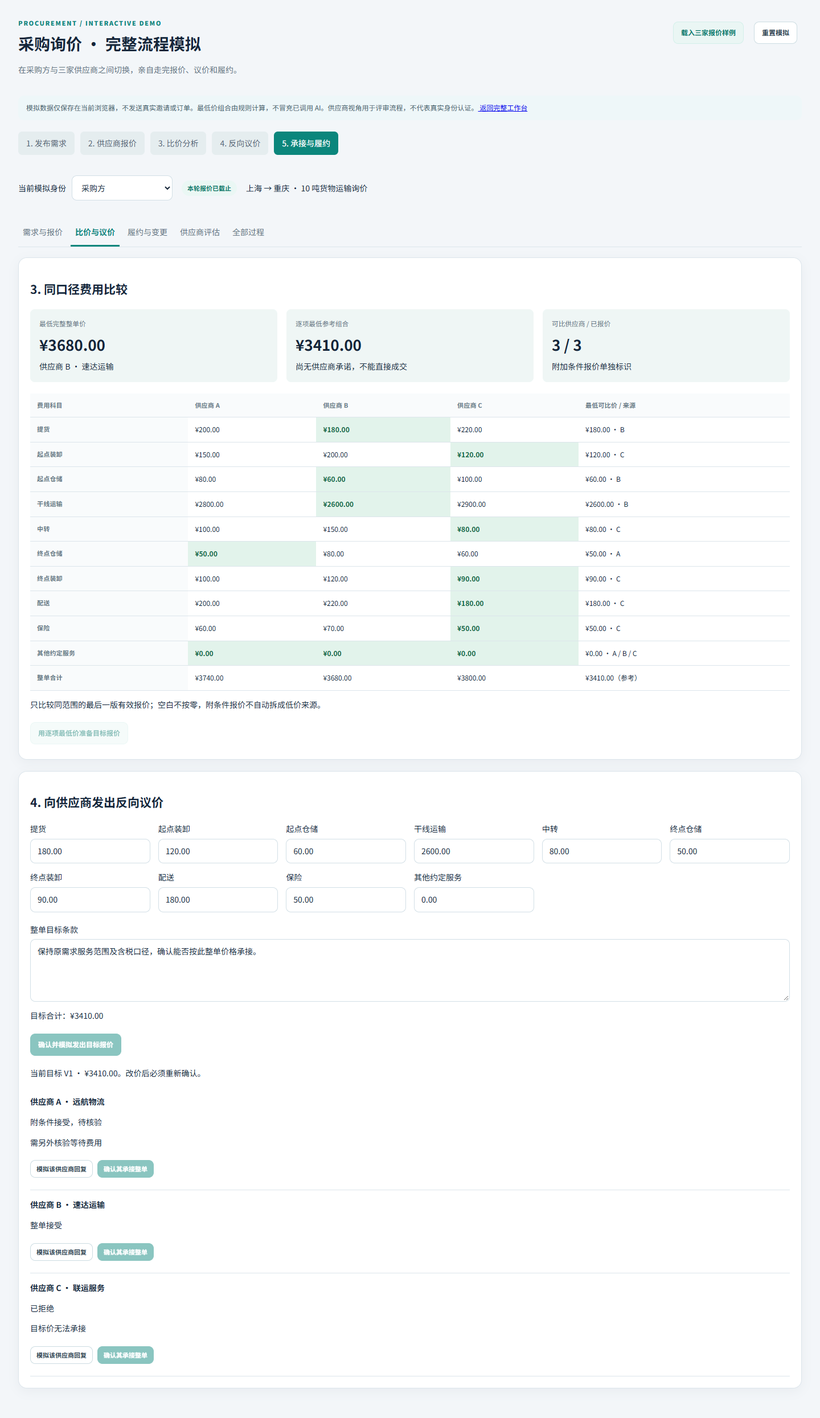
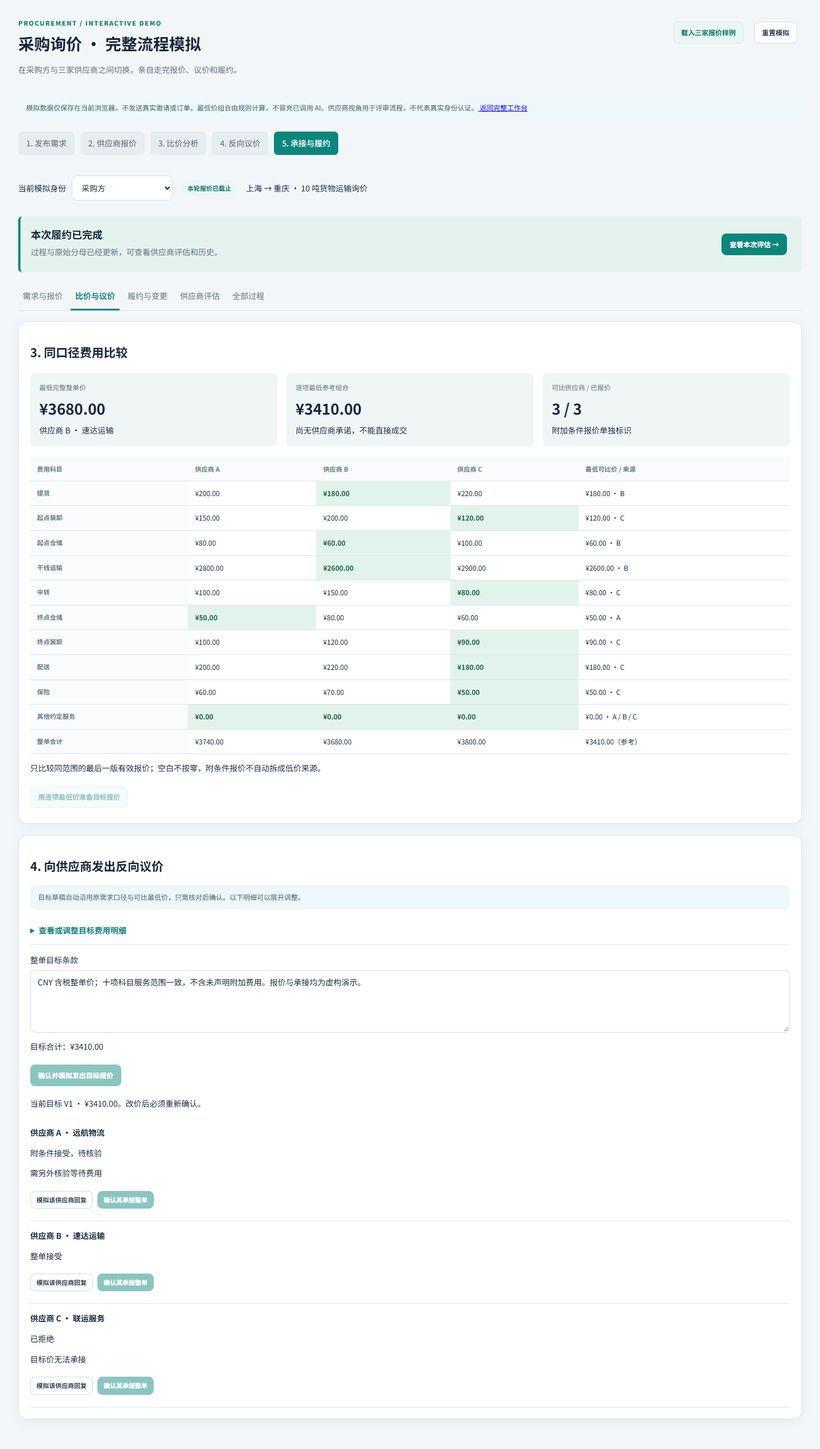
Improve procurement guidance and reduce repetitive quote entry

diff --git a/frontend/src/procurement/DemoProcurement.tsx b/frontend/src/procurement/DemoProcurement.tsx
@@ -1,24 +1,32 @@
 import {useEffect,useState} from 'react';
 import {Action,comparison,DemoState,metrics,money,cents,reduce,seed,total} from './demoModel';
+import FlowGuide from './FlowGuide';
+import QuoteAssist from './QuoteAssist';
 const labels={draft:'需求草稿',quoting:'供应商报价中',closed:'本轮报价已截止'};
 export default function DemoProcurement({tenantId='public-demo'}:{tenantId?:string}){
  const params=new URLSearchParams(location.search),scope=params.get('demoTenant')||tenantId,key=`workhub.procurement.preview.v1:${scope}`;
  const read=()=>{try{const s=JSON.parse(localStorage.getItem(key)||'null');return s?.version===1&&Array.isArray(s.suppliers)&&Array.isArray(s.events)?s as DemoState:seed();}catch{return seed();}};
  const [s,setS]=useState<DemoState>(read),[role,setRole]=useState(params.get('demoSupplier')||'buyer'),[message,setMessage]=useState(''),[tab,setTab]=useState('flow');
  const [form,setForm]=useState(()=>({title:s.title,route:s.route,cargo:s.cargo,terms:s.terms,deadline:s.deadline,fees:s.fees.join('\n')}));
- const [values,setValues]=useState<string[]>(()=>s.fees.map(()=>'')),[quoteNote,setQuoteNote]=useState(''),[target,setTarget]=useState<string[]>(()=>s.offers.length?s.offers[s.offers.length-1].amounts:[]),[targetTerms,setTargetTerms]=useState('保持原需求服务范围及含税口径，确认能否按此整单价格承接。'),[responseNote,setResponseNote]=useState(''),[delta,setDelta]=useState('150.00'),[reason,setReason]=useState('客户要求增加一次装卸，双方另行核实。'),[confirmation,setConfirmation]=useState('模拟双方已确认费用变化及服务范围。');
+ const [values,setValues]=useState<string[]>(()=>s.fees.map(()=>'')),[quoteNote,setQuoteNote]=useState(''),[target,setTarget]=useState<string[]>(()=>s.offers.length?s.offers[s.offers.length-1].amounts:[]),[targetTerms,setTargetTerms]=useState(()=>s.offers.length?s.offers[s.offers.length-1].terms:s.terms),[responseNote,setResponseNote]=useState(''),[delta,setDelta]=useState('150.00'),[reason,setReason]=useState('客户要求增加一次装卸，双方另行核实。'),[confirmation,setConfirmation]=useState('模拟双方已确认费用变化及服务范围。');
  useEffect(()=>{try{localStorage.setItem(key,JSON.stringify(s));}catch{setMessage('浏览器存储不可用，刷新后可能丢失演示进度。');}},[s,key]);
- useEffect(()=>{setValues(s.fees.map(()=>''));setQuoteNote('');},[role,s.fees.length]);
+ const draftKey=key+':quote-draft:'+role+':'+(s.events[0]?.at??'draft')+':'+s.fees.join('|');
+ const saveQuote=(amounts:string[],note:string)=>{setValues(amounts);setQuoteNote(note);try{localStorage.setItem(draftKey,JSON.stringify({amounts,note}));}catch{setMessage('草稿存储失败，请先保留当前输入。');}};
+ useEffect(()=>{const person=s.suppliers.find(p=>p.id===role),last=person?.quotes[person.quotes.length-1];let draft;try{draft=JSON.parse(localStorage.getItem(draftKey)||'null');}catch{}setValues(draft?.amounts?.length===s.fees.length?draft.amounts:last?.amounts??s.fees.map(()=>''));setQuoteNote(draft?.note??last?.note??'');setResponseNote('');},[draftKey]);
  useEffect(()=>{const listener=(e:StorageEvent)=>{if(e.key===key)setS(read());};window.addEventListener('storage',listener);return()=>window.removeEventListener('storage',listener);},[key]);
  const person=s.suppliers.find(p=>p.id===role),lastOffer=s.offers[s.offers.length-1];
  const commit=(next:DemoState,notice:string)=>{setS(next);setMessage(notice);};
  const act=(a:Action,notice='已保存模拟记录')=>{try{commit(reduce(s,a),notice);}catch(e){setMessage(e instanceof Error?e.message:String(e));}};
  const publish=():Action=>({type:'publish',...form,fees:form.fees.split('\n').map(v=>v.trim()).filter(Boolean)});
  let compare:ReturnType<typeof comparison>|undefined;try{compare=comparison(s);}catch{/* no comparable quotes yet */}
+ useEffect(()=>{if(s.phase==='closed'&&!s.offers.length&&compare)setTarget(current=>current.some(v=>v.trim())?current:compare!.minima.map(m=>m.amount));},[s.phase,s.offers.length,compare?.reference]);
+ useEffect(()=>{if(!s.offers.length)setTargetTerms(s.terms);},[s.terms]);
+ const jump=(nextRole:string,nextTab:string)=>{setRole(nextRole);setTab(nextTab);document.querySelector('.proc-rolebar')?.scrollIntoView({block:'start',behavior:'smooth'});};
+ const closeRound=()=>{try{const next=reduce(s,{type:'close'});commit(next,'已模拟截止，目标草稿按可比最低价自动整理，请核对再发出。');jump('buyer','analysis');}catch(e){setMessage(String(e));}};
  const sum=(items:string[])=>{if(items.length!==s.fees.length)return '待完整填写';try{return total(items);}catch{return '待完整填写';}};
  const chosen=s.suppliers.find(p=>p.id===s.award?.supplierId);
- const reset=()=>{if(s.events.length&&!window.confirm('清除当前浏览器这份采购模拟数据并重新开始？不会影响其他模块。'))return;const fresh=seed();setS(fresh);setForm({title:fresh.title,route:fresh.route,cargo:fresh.cargo,terms:fresh.terms,deadline:fresh.deadline,fees:fresh.fees.join('\n')});setTarget([]);setRole('buyer');setMessage('演示已重置');};
- const example=()=>{if(s.events.length&&!window.confirm('用三家虚构供应商的报价样例替换当前模拟进度？'))return;let fresh=seed();fresh=reduce(fresh,{type:'publish',title:fresh.title,route:fresh.route,cargo:fresh.cargo,terms:fresh.terms,deadline:fresh.deadline,fees:fresh.fees});for(const p of fresh.suppliers)fresh=reduce(fresh,{type:'quote',supplierId:p.id,amounts:p.sample,note:''});commit(fresh,'已载入三家报价。下一步点“模拟截止并比价”，或切换供应商修改报价。');setTarget([]);setRole('buyer');setTab('flow');};
+ const reset=()=>{if(s.events.length&&!window.confirm('清除当前浏览器这份采购模拟数据并重新开始？不会影响其他模块。'))return;const fresh=seed();setS(fresh);setForm({title:fresh.title,route:fresh.route,cargo:fresh.cargo,terms:fresh.terms,deadline:fresh.deadline,fees:fresh.fees.join('\n')});setTarget([]);setTargetTerms(fresh.terms);setRole('buyer');setMessage('演示已重置');};
+ const example=()=>{if(s.events.length&&!window.confirm('用三家虚构供应商的报价样例替换当前模拟进度？'))return;let fresh=seed();fresh=reduce(fresh,{type:'publish',title:fresh.title,route:fresh.route,cargo:fresh.cargo,terms:fresh.terms,deadline:fresh.deadline,fees:fresh.fees});for(const p of fresh.suppliers)fresh=reduce(fresh,{type:'quote',supplierId:p.id,amounts:p.sample,note:''});commit(fresh,'已载入三家报价。下一步点“模拟截止并比价”，或切换供应商修改报价。');setTarget([]);setTargetTerms(fresh.terms);setRole('buyer');setTab('flow');};
  const link=(id:string)=>`${location.origin}${import.meta.env.BASE_URL}?procurementDemo=1&demoTenant=${encodeURIComponent(scope)}&demoSupplier=${id}`;
  const copy=async(id:string)=>{try{await navigator.clipboard.writeText(link(id));setMessage('已复制模拟链接，仅当前浏览器同源共享此演示数据；不是实际供应商邀请。');}catch{setMessage('可在下方展开链接并手动复制。');}};
  const currentStep=s.award?4:s.offers.length?3:s.phase==='closed'?2:s.phase==='quoting'?1:0;
@@ -27,14 +35,15 @@ export default function DemoProcurement({tenantId='public-demo'}:{tenantId?:stri
   <div className="notice">模拟数据仅保存在当前浏览器，不发送真实邀请或订单。最低价组合由规则计算，不冒充已调用 AI。供应商视角用于评审流程，不代表真实身份认证。<a href={import.meta.env.BASE_URL}> 返回完整工作台</a></div>
   <div className="proc-steps">{['发布需求','供应商报价','比价分析','反向议价','承接与履约'].map((name,i)=><span key={name} className={i===currentStep?'current':''}>{i+1}. {name}</span>)}</div>
   <div className="proc-rolebar"><label>当前模拟身份 <select value={role} onChange={e=>{setRole(e.target.value);setMessage('');}}><option value="buyer">采购方</option>{s.suppliers.map(p=><option key={p.id} value={p.id}>{p.name}</option>)}</select></label><span className="pill">{labels[s.phase]}</span><span>{s.title}</span></div>
+  <FlowGuide state={s} role={role} jump={jump} close={closeRound}/>
   {message&&<div className="notice warn" role="status" aria-live="polite">{message}</div>}
   {role==='buyer'?<>
    <nav className="workflow-tabs" aria-label="采购演示页面">{[['flow','需求与报价'],['analysis','比价与议价'],['delivery','履约与变更'],['evaluation','供应商评估'],['timeline','全部过程']].map(([id,label])=><button key={id} className={tab===id?'active':''} onClick={()=>setTab(id)}>{label}</button>)}</nav>
-   {tab==='flow'&&<div className="workflow-grid"><section className="panel"><h2>1. 发布运输需求与费用模板</h2><form onSubmit={e=>{e.preventDefault();act(publish(),'需求已冻结发布。切换供应商身份逐一填报价，或复制模拟链接。');}}>{[['title','需求名称'],['route','从哪里运输到哪里'],['cargo','货量、重量、体积和时间要求'],['terms','统一报价口径与条款']].map(([k,label])=><label className="field" key={k}>{label}<input required disabled={s.phase!=='draft'} value={form[k as keyof typeof form]} onChange={e=>setForm({...form,[k]:e.target.value})}/></label>)}<label className="field">报价截止（演示可手动模拟到期）<input type="datetime-local" required disabled={s.phase!=='draft'} value={form.deadline} onChange={e=>setForm({...form,deadline:e.target.value})}/></label><label className="field">费用科目 · 每行一项，CNY 含税整单金额<textarea rows={8} disabled={s.phase!=='draft'} value={form.fees} onChange={e=>setForm({...form,fees:e.target.value})}/></label><button className="btn primary" disabled={s.phase!=='draft'}>冻结并发布需求</button></form></section><aside className="panel"><h2>2. 邀请与报价回收</h2><p>先发布，再切换下方供应商视角填写十项金额。也可一键载入样例，直接比较。</p>{s.suppliers.map(p=><div className="task-row" key={p.id}><strong>{p.name}</strong><p>{p.quotes.length?`已报价 ${p.quotes.length} 版 · 最新总价 ¥${total(p.quotes[p.quotes.length-1].amounts)}`:'尚未提交报价'}</p><button className="btn sm soft" disabled={s.phase==='draft'} onClick={()=>setRole(p.id)}>进入供应商填报</button><button className="btn sm" disabled={s.phase==='draft'} onClick={()=>copy(p.id)}>复制模拟链接</button><details><summary>查看模拟链接</summary><input readOnly value={link(p.id)}/><small>仅同一浏览器数据；不能作为真实邀请跨设备收件。</small></details></div>)}<button className="btn primary" disabled={s.phase!=='quoting'||!s.suppliers.some(p=>p.quotes.length)} onClick={()=>{try{const next=reduce(s,{type:'close'});commit(next,'已模拟截止，正式比价显示每项最低值及来源。');setTab('analysis');}catch(e){setMessage(String(e));}}}>模拟截止并比价 →</button></aside></div>}
-   {tab==='analysis'&&<><section className="panel"><h2>3. 同口径费用比较</h2>{s.phase!=='closed'?<p>请先到“需求与报价”收集报价，再模拟截止。</p>:!compare?<p>暂无无附加条件的可比报价。可重置后修改报价进行比较。</p>:<><div className="proc-kpis"><div><small>最低完整整单价</small><strong>¥{compare.bestTotal}</strong><span>{s.suppliers.find(p=>p.id===compare!.bestSupplier)?.name}</span></div><div><small>逐项最低参考组合</small><strong>¥{compare.reference}</strong><span>尚无供应商承诺，不能直接成交</span></div><div><small>可比供应商 / 已报价</small><strong>{compare.rows.length-compare.excluded} / {compare.rows.length}</strong><span>附加条件报价单独标识</span></div></div><div className="proc-table-wrap"><table className="proc-table"><thead><tr><th>费用科目</th>{s.suppliers.map(p=><th key={p.id}>{p.name.split(' · ')[0]}</th>)}<th>最低可比价 / 来源</th></tr></thead><tbody>{s.fees.map((fee,i)=><tr key={i}><th>{fee}</th>{s.suppliers.map(p=>{const q=p.quotes[p.quotes.length-1];return <td key={p.id} className={q&&!q.note.trim()&&compare!.minima[i].suppliers.includes(p.id)?'minimum':''}>{q?`¥${q.amounts[i]}`:'未报价'}{q?.note&&<small>附条件 · 不纳入最低价</small>}</td>;})}<td>¥{compare!.minima[i].amount} · {compare!.minima[i].suppliers.join(' / ')}</td></tr>)}<tr><th>整单合计</th>{s.suppliers.map(p=><td key={p.id}>{p.quotes.length?`¥${total(p.quotes[p.quotes.length-1].amounts)}`:'—'}</td>)}<td>¥{compare.reference}（参考）</td></tr></tbody></table></div><p>只比较同范围的最后一版有效报价；空白不按零，附条件报价不自动拆成低价来源。</p><button className="btn soft" disabled={!!s.award} onClick={()=>{setTarget(compare!.minima.map(m=>m.amount));setMessage('已将逐项最低组合填入目标草稿。请检查条款后发布，尚未成交。');}}>用逐项最低价准备目标报价</button></>}</section><section className="panel"><h2>4. 向供应商发出反向议价</h2><div className="proc-fees">{s.fees.map((fee,i)=><label key={i}>{fee}<input type="number" min="0" step="0.01" value={target[i]??''} onChange={e=>{const copy=s.fees.map((_,j)=>target[j]??'');copy[i]=e.target.value;setTarget(copy);}}/></label>)}</div><label className="field">整单目标条款<textarea value={targetTerms} onChange={e=>setTargetTerms(e.target.value)}/></label><p>目标合计：¥{sum(target)}</p><button className="btn primary" disabled={s.phase!=='closed'||!!s.award} onClick={()=>act({type:'offer',amounts:target,terms:targetTerms},'目标报价已发出（模拟）。切换各供应商可接受、拒绝或附条件回复。')}>确认并模拟发出目标报价</button>{lastOffer&&<><p>当前目标 V{lastOffer.version} · ¥{total(lastOffer.amounts)}。改价后必须重新确认。</p>{s.suppliers.map(p=>{const response=p.responses[p.responses.length-1];const current=response?.offer===lastOffer.version;return <div className="task-row" key={p.id}><strong>{p.name}</strong><p>{current?response.decision==='accept'?'整单接受':response.decision==='reject'?'已拒绝':'附条件接受，待核验':'等待回复'}</p>{current&&response.note&&<p>{response.note}</p>}<button className="btn sm" onClick={()=>setRole(p.id)}>模拟该供应商回复</button><button className="btn sm primary" disabled={!current||response?.decision!=='accept'||!!s.award} onClick={()=>{try{const next=reduce(s,{type:'award',supplierId:p.id});commit(next,'已确认完整承接。可以登记费用变化、退出或履约完成。');setTab('delivery');}catch(e){setMessage(String(e));}}}>确认其承接整单</button></div>;})}</>}</section></>}
+   {tab==='flow'&&<div className="workflow-grid"><section className="panel"><h2>1. 发布运输需求与费用模板</h2><form onSubmit={e=>{e.preventDefault();act(publish(),'需求已冻结发布。切换供应商身份逐一填报价，或复制模拟链接。');}}>{[['title','需求名称'],['route','从哪里运输到哪里'],['cargo','货量、重量、体积和时间要求'],['terms','统一报价口径与条款']].map(([k,label])=><label className="field" key={k}>{label}<input required disabled={s.phase!=='draft'} value={form[k as keyof typeof form]} onChange={e=>setForm({...form,[k]:e.target.value})}/></label>)}<details className="proc-advanced"><summary>按需调整：截止时间、费用模板</summary><label className="field">报价截止（演示可手动模拟到期）<input type="datetime-local" required disabled={s.phase!=='draft'} value={form.deadline} onChange={e=>setForm({...form,deadline:e.target.value})}/></label><label className="field">费用科目 · 每行一项，CNY 含税整单金额<textarea rows={8} disabled={s.phase!=='draft'} value={form.fees} onChange={e=>setForm({...form,fees:e.target.value})}/></label></details><button className="btn primary" disabled={s.phase!=='draft'}>冻结并发布需求</button></form></section><aside className="panel"><h2>2. 邀请与报价回收</h2><p>先发布，再切换下方供应商视角填写十项金额。也可一键载入样例，直接比较。</p>{s.suppliers.map(p=><div className="task-row" key={p.id}><strong>{p.name}</strong><p>{p.quotes.length?`已报价 ${p.quotes.length} 版 · 最新总价 ¥${total(p.quotes[p.quotes.length-1].amounts)}`:'尚未提交报价'}</p><button className="btn sm soft" disabled={s.phase==='draft'} onClick={()=>setRole(p.id)}>进入供应商填报</button><button className="btn sm" disabled={s.phase==='draft'} onClick={()=>copy(p.id)}>复制模拟链接</button><details><summary>查看模拟链接</summary><input readOnly value={link(p.id)}/><small>仅同一浏览器数据；不能作为真实邀请跨设备收件。</small></details></div>)}<button className="btn primary" disabled={s.phase!=='quoting'||!s.suppliers.some(p=>p.quotes.length)} onClick={()=>{try{const next=reduce(s,{type:'close'});commit(next,'已模拟截止，正式比价显示每项最低值及来源。');setTab('analysis');}catch(e){setMessage(String(e));}}}>模拟截止并比价 →</button></aside></div>}
+   {tab==='analysis'&&<><section className="panel"><h2>3. 同口径费用比较</h2>{s.phase!=='closed'?<p>请先到“需求与报价”收集报价，再模拟截止。</p>:!compare?<p>暂无无附加条件的可比报价。可重置后修改报价进行比较。</p>:<><div className="proc-kpis"><div><small>最低完整整单价</small><strong>¥{compare.bestTotal}</strong><span>{s.suppliers.find(p=>p.id===compare!.bestSupplier)?.name}</span></div><div><small>逐项最低参考组合</small><strong>¥{compare.reference}</strong><span>尚无供应商承诺，不能直接成交</span></div><div><small>可比供应商 / 已报价</small><strong>{compare.rows.length-compare.excluded} / {compare.rows.length}</strong><span>附加条件报价单独标识</span></div></div><div className="proc-table-wrap"><table className="proc-table"><thead><tr><th>费用科目</th>{s.suppliers.map(p=><th key={p.id}>{p.name.split(' · ')[0]}</th>)}<th>最低可比价 / 来源</th></tr></thead><tbody>{s.fees.map((fee,i)=><tr key={i}><th>{fee}</th>{s.suppliers.map(p=>{const q=p.quotes[p.quotes.length-1];return <td key={p.id} className={q&&!q.note.trim()&&compare!.minima[i].suppliers.includes(p.id)?'minimum':''}>{q?`¥${q.amounts[i]}`:'未报价'}{q?.note&&<small>附条件 · 不纳入最低价</small>}</td>;})}<td>¥{compare!.minima[i].amount} · {compare!.minima[i].suppliers.join(' / ')}</td></tr>)}<tr><th>整单合计</th>{s.suppliers.map(p=><td key={p.id}>{p.quotes.length?`¥${total(p.quotes[p.quotes.length-1].amounts)}`:'—'}</td>)}<td>¥{compare.reference}（参考）</td></tr></tbody></table></div><p>只比较同范围的最后一版有效报价；空白不按零，附条件报价不自动拆成低价来源。</p><button className="btn soft" disabled={!!s.award} onClick={()=>{setTarget(compare!.minima.map(m=>m.amount));setMessage('已将逐项最低组合填入目标草稿。请检查条款后发布，尚未成交。');}}>用逐项最低价准备目标报价</button></>}</section><section className="panel"><h2>4. 向供应商发出反向议价</h2><p className="notice">目标草稿自动沿用原需求口径与可比最低价，只需核对后确认。以下明细可以展开调整。</p><details className="proc-advanced"><summary>查看或调整目标费用明细</summary><div className="proc-fees">{s.fees.map((fee,i)=><label key={i}>{fee}<input type="number" min="0" step="0.01" value={target[i]??''} onChange={e=>{const copy=s.fees.map((_,j)=>target[j]??'');copy[i]=e.target.value;setTarget(copy);}}/></label>)}</div></details><label className="field">整单目标条款<textarea value={targetTerms} onChange={e=>setTargetTerms(e.target.value)}/></label><p>目标合计：¥{sum(target)}</p><button className="btn primary" disabled={s.phase!=='closed'||!!s.award} onClick={()=>act({type:'offer',amounts:target,terms:targetTerms},'目标报价已发出（模拟）。切换各供应商可接受、拒绝或附条件回复。')}>确认并模拟发出目标报价</button>{lastOffer&&<><p>当前目标 V{lastOffer.version} · ¥{total(lastOffer.amounts)}。改价后必须重新确认。</p>{s.suppliers.map(p=>{const response=p.responses[p.responses.length-1];const current=response?.offer===lastOffer.version;return <div className="task-row" key={p.id}><strong>{p.name}</strong><p>{current?response.decision==='accept'?'整单接受':response.decision==='reject'?'已拒绝':'附条件接受，待核验':'等待回复'}</p>{current&&response.note&&<p>{response.note}</p>}<button className="btn sm" onClick={()=>setRole(p.id)}>模拟该供应商回复</button><button className="btn sm primary" disabled={!current||response?.decision!=='accept'||!!s.award} onClick={()=>{try{const next=reduce(s,{type:'award',supplierId:p.id});commit(next,'已确认完整承接。可以登记费用变化、退出或履约完成。');setTab('delivery');}catch(e){setMessage(String(e));}}}>确认其承接整单</button></div>;})}</>}</section></>}
    {tab==='delivery'&&<section className="panel"><h2>5. 承接、履约与费用变更</h2>{!s.award?<p>尚未有供应商明确接受并获选，不能模拟履约。请先完成反向议价。</p>:<><div className="notice">承接：{chosen?.name} · 目标 V{s.award.offer} · ¥{total(s.offers[s.award.offer-1].amounts)} · {s.withdrawal?'已退出':s.completed?'已完结':'履约中'}</div><p>核准费用变化：¥{money(s.changes.filter(c=>c.status==='approved').reduce((a,c)=>a+cents(c.delta,true),0n))}；待确认申请不计入。</p><label className="field">增减金额（减少填负数）<input value={delta} onChange={e=>setDelta(e.target.value)}/></label><label className="field">变更 / 退出原因<textarea value={reason} onChange={e=>setReason(e.target.value)}/></label><button className="btn" disabled={s.completed||!!s.withdrawal} onClick={()=>act({type:'change',delta,reason})}>模拟提出费用变更</button><label className="field">双方确认依据<textarea value={confirmation} onChange={e=>setConfirmation(e.target.value)}/></label>{s.changes.map(c=><div className="task-row" key={c.id}><strong>{c.id} · ¥{c.delta} · {c.status==='approved'?'已确认':'申请中'}</strong><p>{c.reason}</p>{c.confirmation&&<small>{c.confirmation}</small>}<button className="btn sm" disabled={c.status==='approved'||s.completed||!!s.withdrawal} onClick={()=>act({type:'approveChange',id:c.id,confirmation})}>记录双方确认</button></div>)}<div className="flex"><button className="btn primary" disabled={s.completed||!!s.withdrawal} onClick={()=>act({type:'complete'},'已登记履约完成，评估中的完结样本与变更率已更新。')}>模拟履约完成</button><button className="btn danger" disabled={s.completed||!!s.withdrawal} onClick={()=>act({type:'withdraw',reason},'已记录承接后退出及原因，不自动认定责任。')}>模拟承接后退出</button><button className="btn soft" onClick={()=>setTab('evaluation')}>查看供应商评估 →</button></div></>}</section>}
    {tab==='evaluation'&&<section className="panel"><h2>供应商价格、接受与履约记录</h2><p>仅当前模拟项目，样本有限，不生成综合评分；目标价接受率与实际承接分别统计。</p><div className="proc-table-wrap"><table className="proc-table"><thead><tr><th>供应商</th><th>报价版本</th><th>整单接受 / 目标邀请</th><th>承接</th><th>接单后退出</th><th>完结发生费用变化 / 完结单</th></tr></thead><tbody>{metrics(s).map(m=><tr key={m.id}><th>{m.name}</th><td>{m.quoteVersions}</td><td>{m.accepted} / {m.invitations} {m.invitations?`（${Math.round(m.accepted/m.invitations*100)}%）`:'（无样本）'}</td><td>{m.awarded?'1':'0'}</td><td>{m.withdrawn?'1':'0'}</td><td>{m.changed?1:0} / {m.completed?1:0}{!m.completed?'（未完结不计分母）':''}</td></tr>)}</tbody></table></div><p>费用变化需区分需求变化、现场异常及漏报；这里展示事件与原始分母，不自动把全部加价归责供应商。</p></section>}
    {tab==='timeline'&&<section className="panel"><h2>全部过程记录</h2>{!s.events.length?<p>发布需求后，系统将在这里记录每次操作。</p>:[...s.events].reverse().map((e,i)=><div className="task-row" key={`${e.at}-${i}`}><strong>{e.detail}</strong><small>{new Date(e.at).toLocaleString()} · {e.action}</small></div>)}</section>}
-  </>:person?<div className="workflow-grid"><section className="panel"><h2>{person.name} · 独立填报视角</h2><p>{s.route} · {s.cargo}</p><div className="quote">{s.terms}</div><p>只展示本家报价，不展示其他供应商金额。演示身份可随时切换。</p><button className="btn soft" disabled={s.phase!=='quoting'} onClick={()=>{setValues(s.fees.map((_,i)=>person.sample[i]??'0'));setQuoteNote('');}}>填入该供应商样例金额</button><form onSubmit={e=>{e.preventDefault();act({type:'quote',supplierId:person.id,amounts:values,note:quoteNote},'该供应商报价已提交并保留版本，切换采购方可查看回收结果。');}}><div className="proc-fees">{s.fees.map((fee,i)=><label key={i}>{fee}<input required type="number" min="0" step="0.01" disabled={s.phase!=='quoting'} value={values[i]??''} onChange={e=>setValues(values.map((v,j)=>j===i?e.target.value:v))}/></label>)}</div><label className="field">附加条件（有条件则不自动参与最低价组合）<textarea value={quoteNote} onChange={e=>setQuoteNote(e.target.value)}/></label><p>整单合计：¥{sum(values)}</p><button className="btn primary" disabled={s.phase!=='quoting'}>核对并提交本家报价</button></form><h3>我的报价回执</h3>{person.quotes.map(q=><div className="task-row" key={q.id}>{q.id} · ¥{total(q.amounts)} · {new Date(q.at).toLocaleString()}<p>{q.note||'无附加条件'}</p></div>)}</section><aside className="panel"><h2>收到的反向议价</h2>{!lastOffer?<p>采购方尚未发布目标报价，提交报价后切换采购方继续。</p>:<><p>V{lastOffer.version} · 整单 ¥{total(lastOffer.amounts)}</p><div className="quote">{lastOffer.terms}</div>{s.fees.map((f,i)=><p key={i}>{f}：¥{lastOffer.amounts[i]}</p>)}<label className="field">回复说明（拒绝和附条件必填）<textarea value={responseNote} onChange={e=>setResponseNote(e.target.value)}/></label>{[['accept','整单接受全部金额与条款'],['reject','拒绝本次目标报价'],['conditional','附条件接受，待采购核验']].map(([decision,label])=><button key={decision} className={`btn ${decision==='accept'?'primary':''}`} disabled={!!s.award} onClick={()=>act({type:'respond',supplierId:person.id,decision:decision as 'accept'|'reject'|'conditional',note:responseNote},'回复已记录。切换采购方可核对结果。')}>{label}</button>)}<h3>我的回复记录</h3>{person.responses.map((r,i)=><p key={i}>V{r.offer} · {r.decision==='accept'?'整单接受':r.decision==='reject'?'拒绝':'附条件接受'} · {r.note}</p>)}</>}<button className="btn soft" onClick={()=>{setRole('buyer');setTab(lastOffer?'analysis':'flow');}}>切回采购方 →</button></aside></div>:<p>未找到模拟供应商，请切换有效身份。</p>}
+  </>:person?<div className={`workflow-grid ${lastOffer?"supplier-negotiation":""}`}><section className="panel"><h2>{person.name} · 独立填报视角</h2><details className="proc-advanced" open={!lastOffer}><summary>本家报价与回执（议价时可展开核对）</summary><p>{s.route} · {s.cargo}</p><div className="quote">{s.terms}</div><p>只展示本家报价，不展示其他供应商金额。演示身份可随时切换。</p><button className="btn soft" disabled={s.phase!=='quoting'} onClick={()=>{saveQuote(s.fees.map((_,i)=>person.sample[i]??'0'),'');}}>填入该供应商样例金额</button><QuoteAssist fees={s.fees} disabled={s.phase!=='quoting'} apply={v=>saveQuote(v,quoteNote)}/><p className="smallprint">金额和备注自动保留为本家草稿；修订时带入最近报价，提交动作仍需手动确认。</p><form onSubmit={e=>{e.preventDefault();act({type:'quote',supplierId:person.id,amounts:values,note:quoteNote},'该供应商报价已提交并保留版本，切换采购方可查看回收结果。');}}><div className="proc-fees">{s.fees.map((fee,i)=><label key={i}>{fee}<input required type="number" min="0" step="0.01" disabled={s.phase!=='quoting'} value={values[i]??''} onChange={e=>saveQuote(values.map((v,j)=>j===i?e.target.value:v),quoteNote)}/></label>)}</div><label className="field">附加条件（有条件则不自动参与最低价组合）<textarea value={quoteNote} onChange={e=>saveQuote(values,e.target.value)}/></label><p>整单合计：¥{sum(values)}</p><button className="btn primary" disabled={s.phase!=='quoting'}>核对并提交本家报价</button></form><h3>我的报价回执</h3>{person.quotes.map(q=><div className="task-row" key={q.id}>{q.id} · ¥{total(q.amounts)} · {new Date(q.at).toLocaleString()}<p>{q.note||'无附加条件'}</p></div>)}</details></section><aside className="panel"><h2>收到的反向议价</h2>{!lastOffer?<p>采购方尚未发布目标报价，提交报价后切换采购方继续。</p>:<><p>V{lastOffer.version} · 整单 ¥{total(lastOffer.amounts)}</p><div className="quote">{lastOffer.terms}</div>{s.fees.map((f,i)=><p key={i}>{f}：¥{lastOffer.amounts[i]}</p>)}<label className="field">回复说明（拒绝和附条件必填）<textarea value={responseNote} onChange={e=>setResponseNote(e.target.value)}/></label>{[['accept','整单接受全部金额与条款'],['reject','拒绝本次目标报价'],['conditional','附条件接受，待采购核验']].map(([decision,label])=><button key={decision} className={`btn ${decision==='accept'?'primary':''}`} disabled={!!s.award} onClick={()=>act({type:'respond',supplierId:person.id,decision:decision as 'accept'|'reject'|'conditional',note:responseNote},'回复已记录。切换采购方可核对结果。')}>{label}</button>)}<h3>我的回复记录</h3>{person.responses.map((r,i)=><p key={i}>V{r.offer} · {r.decision==='accept'?'整单接受':r.decision==='reject'?'拒绝':'附条件接受'} · {r.note}</p>)}</>}<button className="btn soft" onClick={()=>{setRole('buyer');setTab(lastOffer?'analysis':'flow');}}>切回采购方 →</button></aside></div>:<p>未找到模拟供应商，请切换有效身份。</p>}
  </div>;
 }

diff --git a/frontend/src/pages/ProcurementPage.tsx b/frontend/src/pages/ProcurementPage.tsx
@@ -2,13 +2,14 @@ import {useEffect,useState} from 'react';
 import {request} from '../realApi';
 import {DEMO_MODE} from '../api';
 import DemoProcurement from '../procurement/DemoProcurement';
+import QuoteAssist from '../procurement/QuoteAssist';
 const feeNames=['提货','起点装卸','起点仓储','干线运输','中转','终点仓储','终点装卸','配送','保险','其他约定服务'];
 async function supplierCall(id:string,body?:unknown){const r=await fetch(`/api/supplier/${encodeURIComponent(id)}`,{method:body?'POST':'GET',headers:{'Content-Type':'application/json','X-Invitation':location.hash.slice(1)},body:body?JSON.stringify(body):undefined});const data=await r.json();if(!r.ok)throw Error(data.error);return data;}
 export function SupplierPortal(){
  const id=new URLSearchParams(location.search).get('supplier')||'';const [p,setP]=useState<any>(),[values,setValues]=useState<string[]>([]),[note,setNote]=useState(''),[message,setMessage]=useState(''),[busy,setBusy]=useState(false);
  useEffect(()=>{supplierCall(id).then(p=>{setP(p);setValues(p.items.map(()=>''));}).catch(e=>setMessage(e.message));},[id]);
  const send=async(b:object)=>{setBusy(true);try{setP(await supplierCall(id,{...b,requestId:crypto.randomUUID()}));setMessage('收到提交回执，采购端同步后可见。');}catch(e){setMessage(String(e));}finally{setBusy(false);}};
- return <main className="panel" style={{maxWidth:850,margin:'30px auto'}}><h1>供应商独立填报</h1><p role="status">{message}</p>{p&&<><h2>{p.title}</h2><p>{p.route} · {p.cargo}</p><div className="quote">{p.terms}</div><p>{p.supplier.name} · {p.currency} · 截止 {new Date(p.deadline).toLocaleString()}</p><form onSubmit={e=>{e.preventDefault();send({op:'quote',amounts:values,conditions:note});}}>{p.items.map((f:any,i:number)=><label className="field" key={f.id}>{f.name}（整单金额）<input required type="number" min="0" step="0.01" value={values[i]||''} onChange={e=>setValues(values.map((v,n)=>n===i?e.target.value:v))}/></label>)}<label className="field">附加条件 / 回复说明<textarea value={note} onChange={e=>setNote(e.target.value)}/></label><button className="btn primary" disabled={busy||p.status!=='published'}>核对需求并提交报价</button></form><h2>反向议价</h2>{p.offers.map((o:any)=><div className="task-row" key={o.id}><p>{o.terms}</p><p>{o.amounts.join(' / ')} {p.currency}</p>{[['accept','整单接受全部金额与条款'],['reject','拒绝'],['conditional','附条件接受']].map(([decision,label])=><button className="btn" disabled={busy} key={decision} onClick={()=>send({op:'respond',offerId:o.id,decision,note})}>{label}</button>)}</div>)}<h2>我的回执</h2>{[...p.quotes,...p.responses].map((r:any)=><p key={r.id}>{r.id} · {r.decision||r.amounts.join(' / ')} · {new Date(r.at).toLocaleString()}</p>)}</>}</main>;
+ return <main className="panel" style={{maxWidth:850,margin:'30px auto'}}><h1>供应商独立填报</h1><p role="status">{message}</p>{p&&<><h2>{p.title}</h2><p>{p.route} · {p.cargo}</p><div className="quote">{p.terms}</div><p>{p.supplier.name} · {p.currency} · 截止 {new Date(p.deadline).toLocaleString()}</p><QuoteAssist fees={p.items.map((f:any)=>f.name)} apply={setValues} disabled={busy||p.status!=='published'}/><form onSubmit={e=>{e.preventDefault();send({op:'quote',amounts:values,conditions:note});}}>{p.items.map((f:any,i:number)=><label className="field" key={f.id}>{f.name}（整单金额）<input required type="number" min="0" step="0.01" value={values[i]||''} onChange={e=>setValues(values.map((v,n)=>n===i?e.target.value:v))}/></label>)}<label className="field">附加条件 / 回复说明<textarea value={note} onChange={e=>setNote(e.target.value)}/></label><button className="btn primary" disabled={busy||p.status!=='published'}>核对需求并提交报价</button></form><h2>反向议价</h2>{p.offers.map((o:any)=><div className="task-row" key={o.id}><p>{o.terms}</p><p>{o.amounts.join(' / ')} {p.currency}</p>{[['accept','整单接受全部金额与条款'],['reject','拒绝'],['conditional','附条件接受']].map(([decision,label])=><button className="btn" disabled={busy} key={decision} onClick={()=>send({op:'respond',offerId:o.id,decision,note})}>{label}</button>)}</div>)}<h2>我的回执</h2>{[...p.quotes,...p.responses].map((r:any)=><p key={r.id}>{r.id} · {r.decision||r.amounts.join(' / ')} · {new Date(r.at).toLocaleString()}</p>)}</>}</main>;
 }
 export default function ProcurementPage({tenantId}:{tenantId:string}){
  const [rows,setRows]=useState<any[]>([]),[p,setP]=useState<any>(),[message,setMessage]=useState(''),[busy,setBusy]=useState(false),[link,setLink]=useState(''),[base,setBase]=useState(location.origin),[comparison,setComparison]=useState<any>(),[metrics,setMetrics]=useState<any>();

diff --git a/frontend/src/procurement/FlowGuide.tsx b/frontend/src/procurement/FlowGuide.tsx
@@ -1,0 +1,23 @@
+import type {DemoState} from './demoModel';
+interface Props {state:DemoState;role:string;jump:(role:string,tab:string)=>void;close:()=>void}
+export default function FlowGuide({state:s,role,jump,close}:Props){
+ const quoted=s.suppliers.filter(p=>p.quotes.length),missing=s.suppliers.find(p=>!p.quotes.length);
+ const offer=s.offers[s.offers.length-1];
+ const waiting=s.suppliers.find(p=>p.responses[p.responses.length-1]?.offer!==offer?.version);
+ const accepted=s.suppliers.filter(p=>{const r=p.responses[p.responses.length-1];return r?.offer===offer?.version&&r?.decision==='accept';});
+ const person=s.suppliers.find(p=>p.id===role);
+ let title='',detail='',action='',go=()=>jump('buyer','flow');
+ if(s.phase==='draft'){title='下一步：确认需求并发布';detail='先检查路线和货量。费用科目与统一口径已有模板，可按需展开修改。';action='查看待发布需求';}
+ else if(role!=='buyer'&&person&&s.award){title='本单已确认承接';detail='报价与回复记录已经保留，返回采购方查看履约、变更与处理结果。';action='查看履约进度';go=()=>jump('buyer','delivery');}
+ else if(role!=='buyer'&&person&&s.phase==='closed'&&!offer){title='报价已截止';detail='采购方正在比较报价。已提交的报价可查看，但不能补交。';action='查看采购比价';go=()=>jump('buyer','analysis');}
+ else if(role!=='buyer'&&person){
+   if(offer&&!s.award){const replied=person.responses[person.responses.length-1]?.offer===offer.version;title=replied?`${person.name} 已回复目标报价`:`下一步：${person.name} 确认目标报价`;detail=replied?'本家回复已保存，可继续下一家或返回采购方核对选择。':'整单金额和条款已从采购方带入，只需选择接受、拒绝或附条件。';action=replied&&waiting?`继续模拟 ${waiting.id} 的回复`:'返回采购方查看回复';go=replied&&waiting?()=>jump(waiting.id,'analysis'):()=>jump('buyer','analysis');}
+   else if(person.quotes.length){title=`${person.name} 已提交报价`;detail=`已收齐 ${quoted.length}/${s.suppliers.length} 家。${missing?'可以继续下一家，不需要手动寻找身份。':'已全部回收，可以模拟截止并比较。'}`;action=missing?`继续填写 ${missing.id} 的报价`:'全部已报价，模拟截止并比价';go=missing?()=>jump(missing.id,'flow'):close;}
+   else{title=`下一步：${person.name} 填报费用`;detail='可以粘贴 Excel 报价列，或填写金额。保存草稿不会自动提交，提交后系统计算总价和回执。';action='返回采购方';}
+ }else if(s.withdrawal||s.completed){title=s.completed?'本次履约已完成':'已记录承接后退出';detail='过程与原始分母已经更新，可查看供应商评估和历史。';action='查看本次评估';go=()=>jump('buyer','evaluation');}
+ else if(s.award){const pending=s.changes.filter(c=>c.status==='proposed').length;title=pending?`下一步：核对 ${pending} 项费用变更`:'下一步：跟进履约或登记异常';detail=pending?'申请还不是已确认费用。先记录双方确认依据，再登记完成。':'不需要每次重新填写订单信息；只有费用变化或退出时补充原因。';action='处理履约';go=()=>jump('buyer','delivery');}
+ else if(offer){title=accepted.length?`已有 ${accepted.length} 家整单接受，请选择承接方`:'下一步：收取供应商对目标价的回复';detail=waiting?`${waiting.name} 尚未回复；附条件接受不等于成交。`:'各家已回复，需重新议价或核对可执行方案。';action=waiting?`模拟 ${waiting.id} 回复目标价`:'核对回复与选择';go=waiting?()=>jump(waiting.id,'analysis'):()=>jump('buyer','analysis');}
+ else if(s.phase==='closed'){title='下一步：核对自动整理的目标报价';detail='逐项最低价、来源与合计已自动带入草稿；不必抄写十项金额。核对条款后再确认发出。';action='核对并发出目标价';go=()=>jump('buyer','analysis');}
+ else{title=`报价回收：${quoted.length}/${s.suppliers.length} 家`;detail=missing?`${missing.name} 尚未报价，点右侧直接进入其填报。`:'三家均已报价，可以模拟截止，查看同口径比较。';action=missing?`填写 ${missing.id} 的报价`:'全部已报价，模拟截止并比价';go=missing?()=>jump(missing.id,'flow'):close;}
+ return <section className="proc-next" aria-label="当前流程指引"><div><strong>{title}</strong><p>{detail}</p></div><button className="btn primary" onClick={go}>{action} →</button></section>;
+}

diff --git a/frontend/src/procurement/demoModel.ts b/frontend/src/procurement/demoModel.ts
@@ -6,6 +6,17 @@ export type Action = {type:'publish';title:string;route:string;cargo:string;term
 export function cents(raw:string,signed=false):bigint {if(!(signed?/^-?\d+(\.\d{1,2})?$/:/^\d+(\.\d{1,2})?$/).test(raw.trim()))throw Error('请填写有效金额，最多两位小数；空白不是零。');const s=raw.trim(),negative=s.startsWith('-'),[a,b='']=s.replace('-','').split('.');const n=BigInt(a)*100n+BigInt(b.padEnd(2,'0'));if(n>99999999999900n)throw Error('金额超出演示范围');return negative?-n:n;}
 export function money(n:bigint):string {return `${n<0n?'-':''}${(n<0n?-n:n)/100n}.${String((n<0n?-n:n)%100n).padStart(2,'0')}`;}
 export function total(values:string[]):string{return money(values.reduce((a,v)=>a+cents(v),0n));}
+/** Import an ordered amount column or exact-name/amount rows; never submit automatically. */
+export function parseQuotePaste(raw:string,fees:string[]):string[]{
+ const rows=raw.trim().split(/\r?\n/).map(r=>r.trim()).filter(Boolean);
+ if(rows.length!==fees.length)throw Error(`需要 ${fees.length} 行报价，当前为 ${rows.length} 行。请检查是否包含表头或漏项。`);
+ const cells=rows.map(r=>r.split('\t').map(v=>v.trim()));
+ if(cells.every(r=>r.length===1))return cells.map(r=>money(cents(r[0].replace(/^[¥￥]\s*/,''))));
+ if(!cells.every(r=>r.length===2))throw Error('请粘贴单列金额，或“费用名称 + 金额”两列；不要混合格式。');
+ const found=new Map<string,string>();
+ for(const [name,value] of cells){if(!fees.includes(name))throw Error(`未知费用科目：${name}，请核对名称，系统不会按位置猜测。`);if(found.has(name))throw Error(`费用重复：${name}`);found.set(name,money(cents(value.replace(/^[¥￥]\s*/,''))));}
+ return fees.map(name=>{const value=found.get(name);if(value===undefined)throw Error(`缺少费用：${name}`);return value;});
+}
 export function seed():DemoState {return {version:1,title:'上海 → 重庆 · 10 吨货物运输询价',route:'上海仓库 → 重庆收货仓',cargo:'10 吨 / 20 立方 / 40 件普通货物，整单含装卸配送',terms:'CNY 含税整单价；十项科目服务范围一致，不含未声明附加费用。报价与承接均为虚构演示。',deadline:'2026-12-31T17:00',fees:[...feeNames],phase:'draft',suppliers:[{id:'A',name:'供应商 A · 远航物流',sample:['200','150','80','2800','100','50','100','200','60','0'],quotes:[],responses:[]},{id:'B',name:'供应商 B · 速达运输',sample:['180','200','60','2600','150','80','120','220','70','0'],quotes:[],responses:[]},{id:'C',name:'供应商 C · 联运服务',sample:['220','120','100','2900','80','60','90','180','50','0'],quotes:[],responses:[]}],offers:[],changes:[],completed:false,events:[]};}
 function check(ok:unknown,message:string):asserts ok {if(!ok)throw Error(message);}
 function prices(s:DemoState,values:string[]){check(values.length===s.fees.length,'需要逐项填写全部费用');values.forEach(v=>cents(v));return values.map(v=>money(cents(v)));}

diff --git a/frontend/src/styles.css b/frontend/src/styles.css
@@ -12,6 +12,13 @@
 }
 
 .standalone-procurement{max-width:1480px;margin:auto;padding:32px}
+.proc-next{display:flex;align-items:center;justify-content:space-between;gap:18px;border-left:4px solid var(--teal);background:#e5f3ee;padding:18px;margin:12px 0 20px;border-radius:7px}
+.proc-next strong{font-size:18px}.proc-next p{margin:6px 0;color:var(--muted)}
+.proc-advanced,.quote-assist{padding:14px 0;border-bottom:1px solid var(--line);margin-bottom:16px}
+.proc-advanced summary,.quote-assist summary{cursor:pointer;color:var(--teal);font-weight:600}
+.supplier-negotiation>aside{grid-column:1;grid-row:1}.supplier-negotiation>section{grid-column:2;grid-row:1}
+@media(max-width:1250px){.supplier-negotiation>aside,.supplier-negotiation>section{grid-column:1}.supplier-negotiation>aside{grid-row:1}.supplier-negotiation>section{grid-row:2}}
+@media(max-width:700px){.proc-next{display:block}.proc-next .btn{white-space:normal;width:100%;margin-top:10px}}
 .demo-proc-head{display:flex;justify-content:space-between;gap:20px;align-items:start;margin-bottom:20px;flex-wrap:wrap}
 .demo-proc-head h1{font-size:28px;margin:6px 0}.demo-proc-head p{color:var(--muted)}
 .proc-steps{display:flex;flex-wrap:wrap;gap:10px;margin:20px 0}

diff --git a/frontend/src/procurement/QuoteAssist.tsx b/frontend/src/procurement/QuoteAssist.tsx
@@ -1,0 +1,6 @@
+import {useState} from 'react';
+import {parseQuotePaste} from './demoModel';
+export default function QuoteAssist({fees,apply,disabled}:{fees:string[];apply:(values:string[])=>void;disabled:boolean}){
+ const [text,setText]=useState(''),[feedback,setFeedback]=useState('');
+ return <details className="quote-assist"><summary>批量粘贴报价，免逐项输入</summary><p>从 Excel 复制 {fees.length} 行：单列金额按当前费用顺序，或“科目名称 + 金额”两列。双列会按名称匹配，导入只填表，不提交。</p><label className="field">粘贴 Excel 报价<textarea rows={6} disabled={disabled} value={text} onChange={e=>setText(e.target.value)} placeholder={fees.map((f,i)=>`${f}\t${i===0?'200':'0'}`).join('\n')}/></label><button type="button" className="btn soft" disabled={disabled||!text.trim()} onClick={()=>{try{const values=parseQuotePaste(text,fees);apply(values);setFeedback(`已匹配 ${values.length} 项。请检查下方金额后手动提交。`);}catch(e){setFeedback(e instanceof Error?e.message:String(e));}}}>匹配并带入报价表</button><p role="status">{feedback}</p></details>;
+}

diff --git a/docs/PROCUREMENT-README.md b/docs/PROCUREMENT-README.md
@@ -2,6 +2,16 @@
 
 ## GitHub Pages 交互演示
 
+### 流程与录入优化
+
+当前步骤指引会根据需求状态、报价回收和供应商回复提示下一步，可直接进入尚未报价/回复的供应商，不必反复寻找身份下拉框。截止后自动将可比最低价带入目标草稿，并沿用原统一条款，金额明细默认折叠，只有需要改价时才展开。
+
+供应商可以从 Excel 粘贴金额单列，或费用名称和金额双列；双列按名称匹配，支持调整行顺序，遇到未知、重复、缺项或非法金额直接提示，不猜测对应关系。导入只带入输入框，不自动正式提交。本功能也接入了真实后端版供应商填报页。
+
+模拟版每家供应商的报价草稿自动保留，切换身份和刷新后可恢复；再次报价优先带入未提交草稿或该家最近一版，不需要重填十项。此草稿持久化仅覆盖模拟页面，未宣称真实门户已具备相同恢复机制。
+
+优化验证：9 项前端规则测试通过；浏览器验证向导跳转、乱序费用粘贴、导入不提交、草稿切换/刷新恢复、目标金额自动带入、原条款保持和下一家回复指引。完整报价到履约回归通过，独立模拟依旧无 API 请求和脚本错误。
+
 新增无需后端的完整流程模拟入口：https://suwki.github.io/AI-tools/?procurementDemo=1 。完整工作台内的“采购询价”在 Pages 模式下也展示此模拟器。
 
 可以直接发布预填需求，逐一切换三家供应商，填入样例金额后提交；或点击“载入三家报价样例”快速开始。随后“模拟截止并比价”→“用逐项最低价准备目标报价”→确认发出→切换供应商接受/拒绝/附条件回复→采购方选择明确接受者承接→记录费用变更和双方确认→履约完成→查看供应商评估及全部过程。
